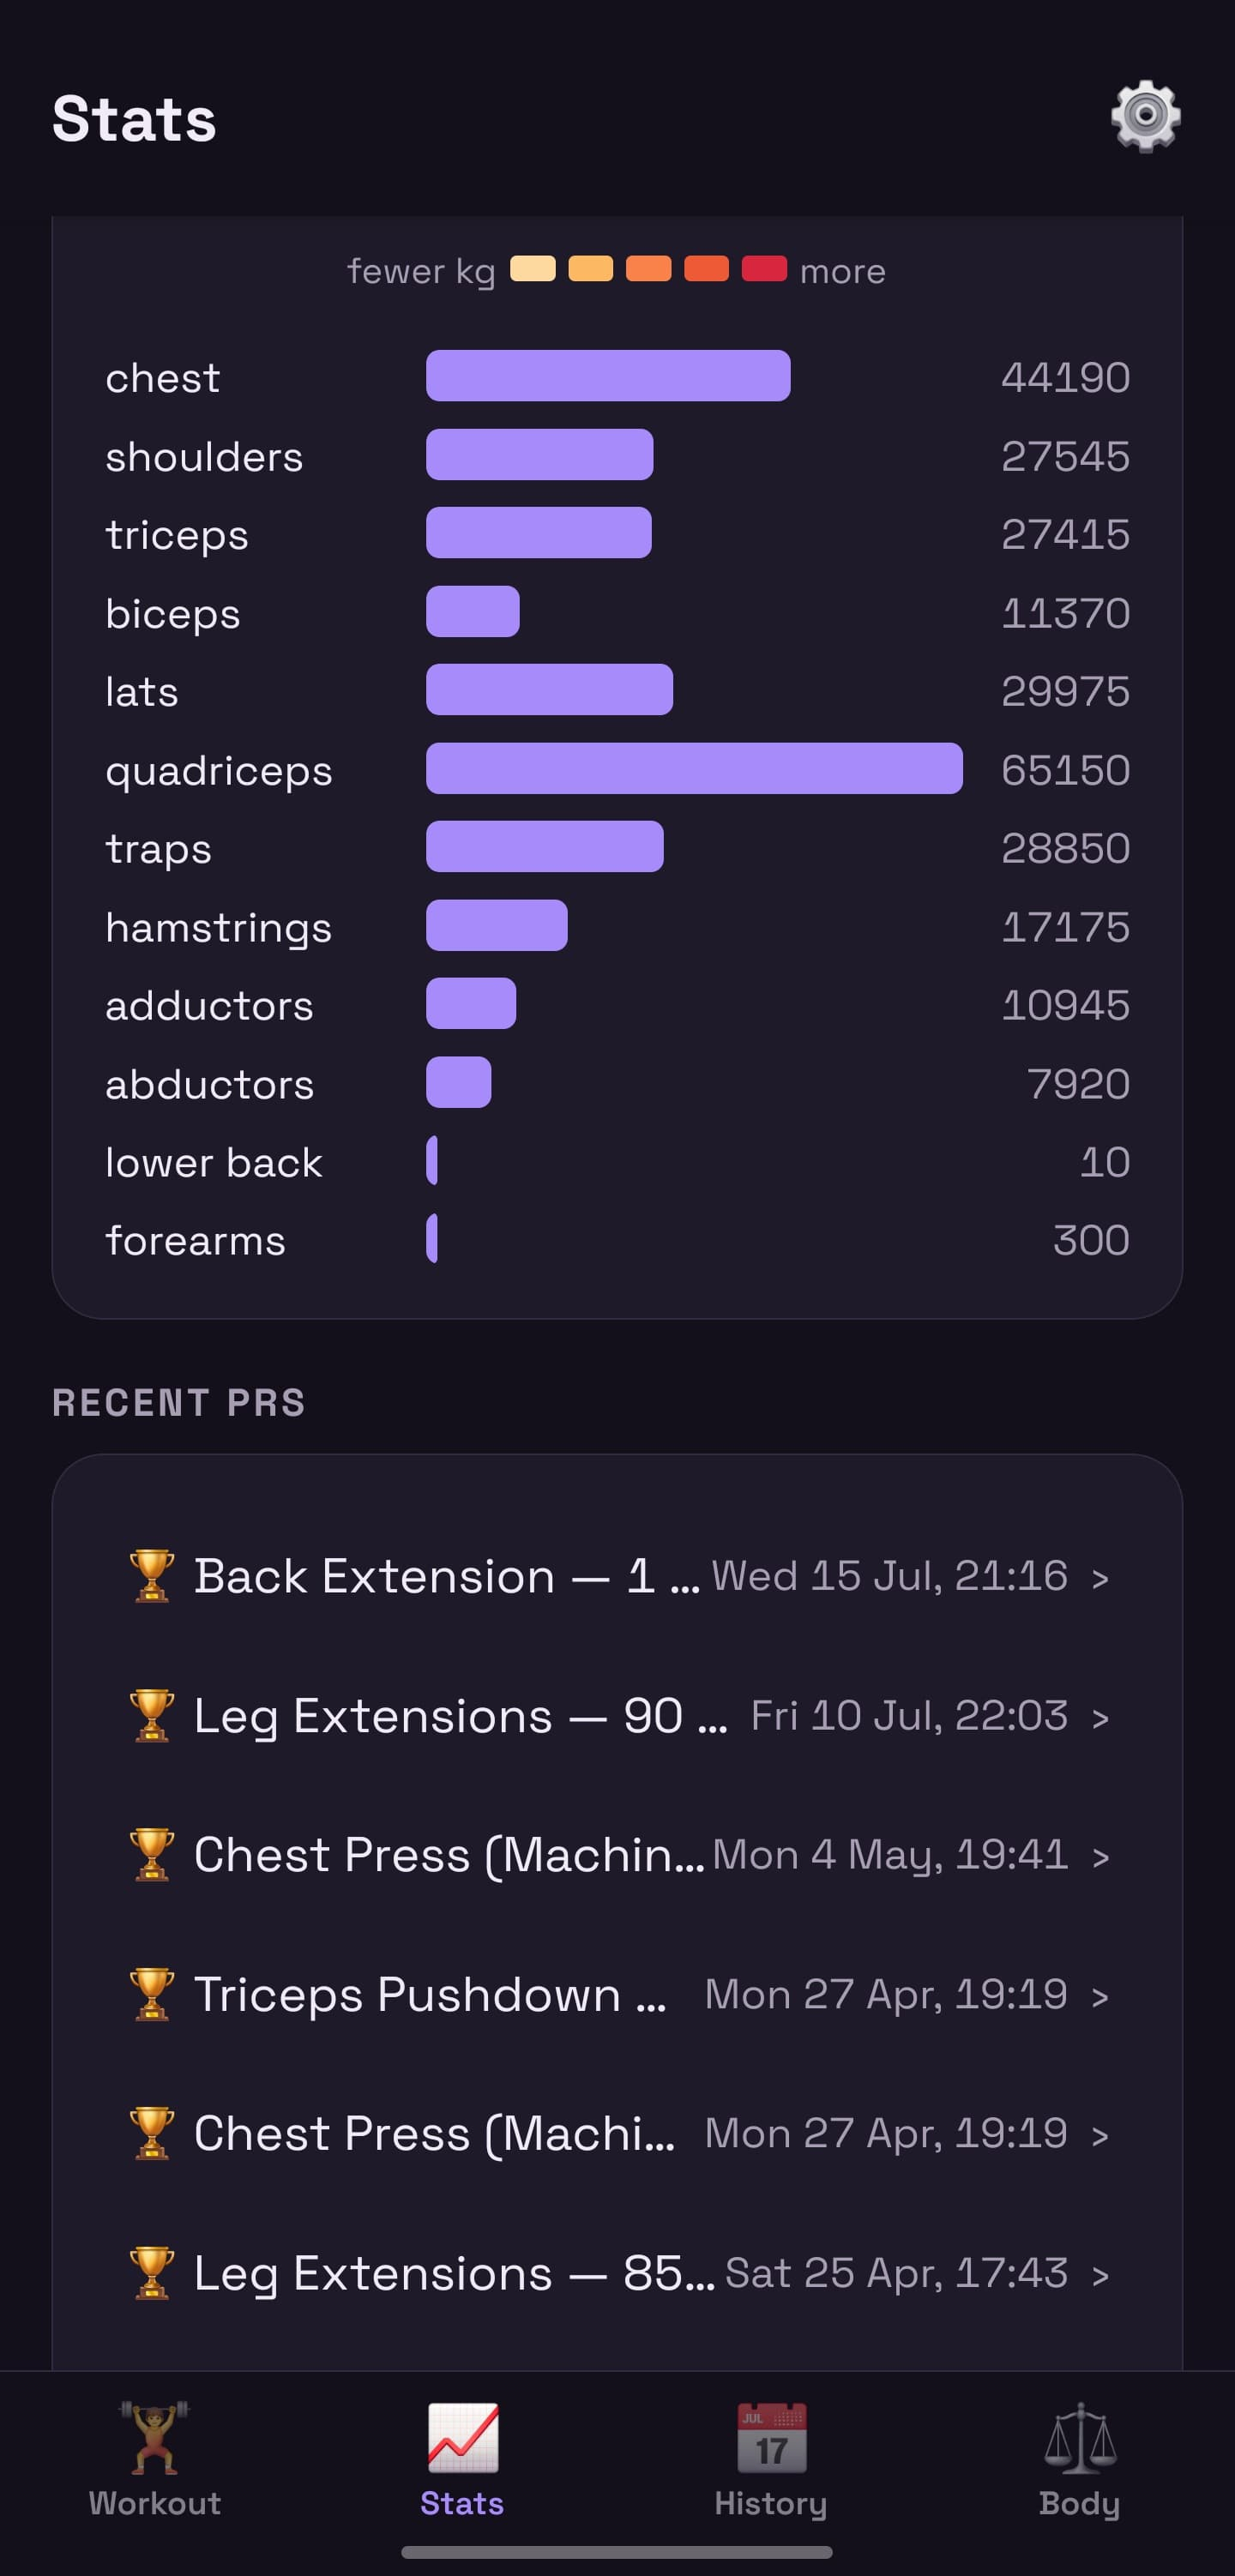
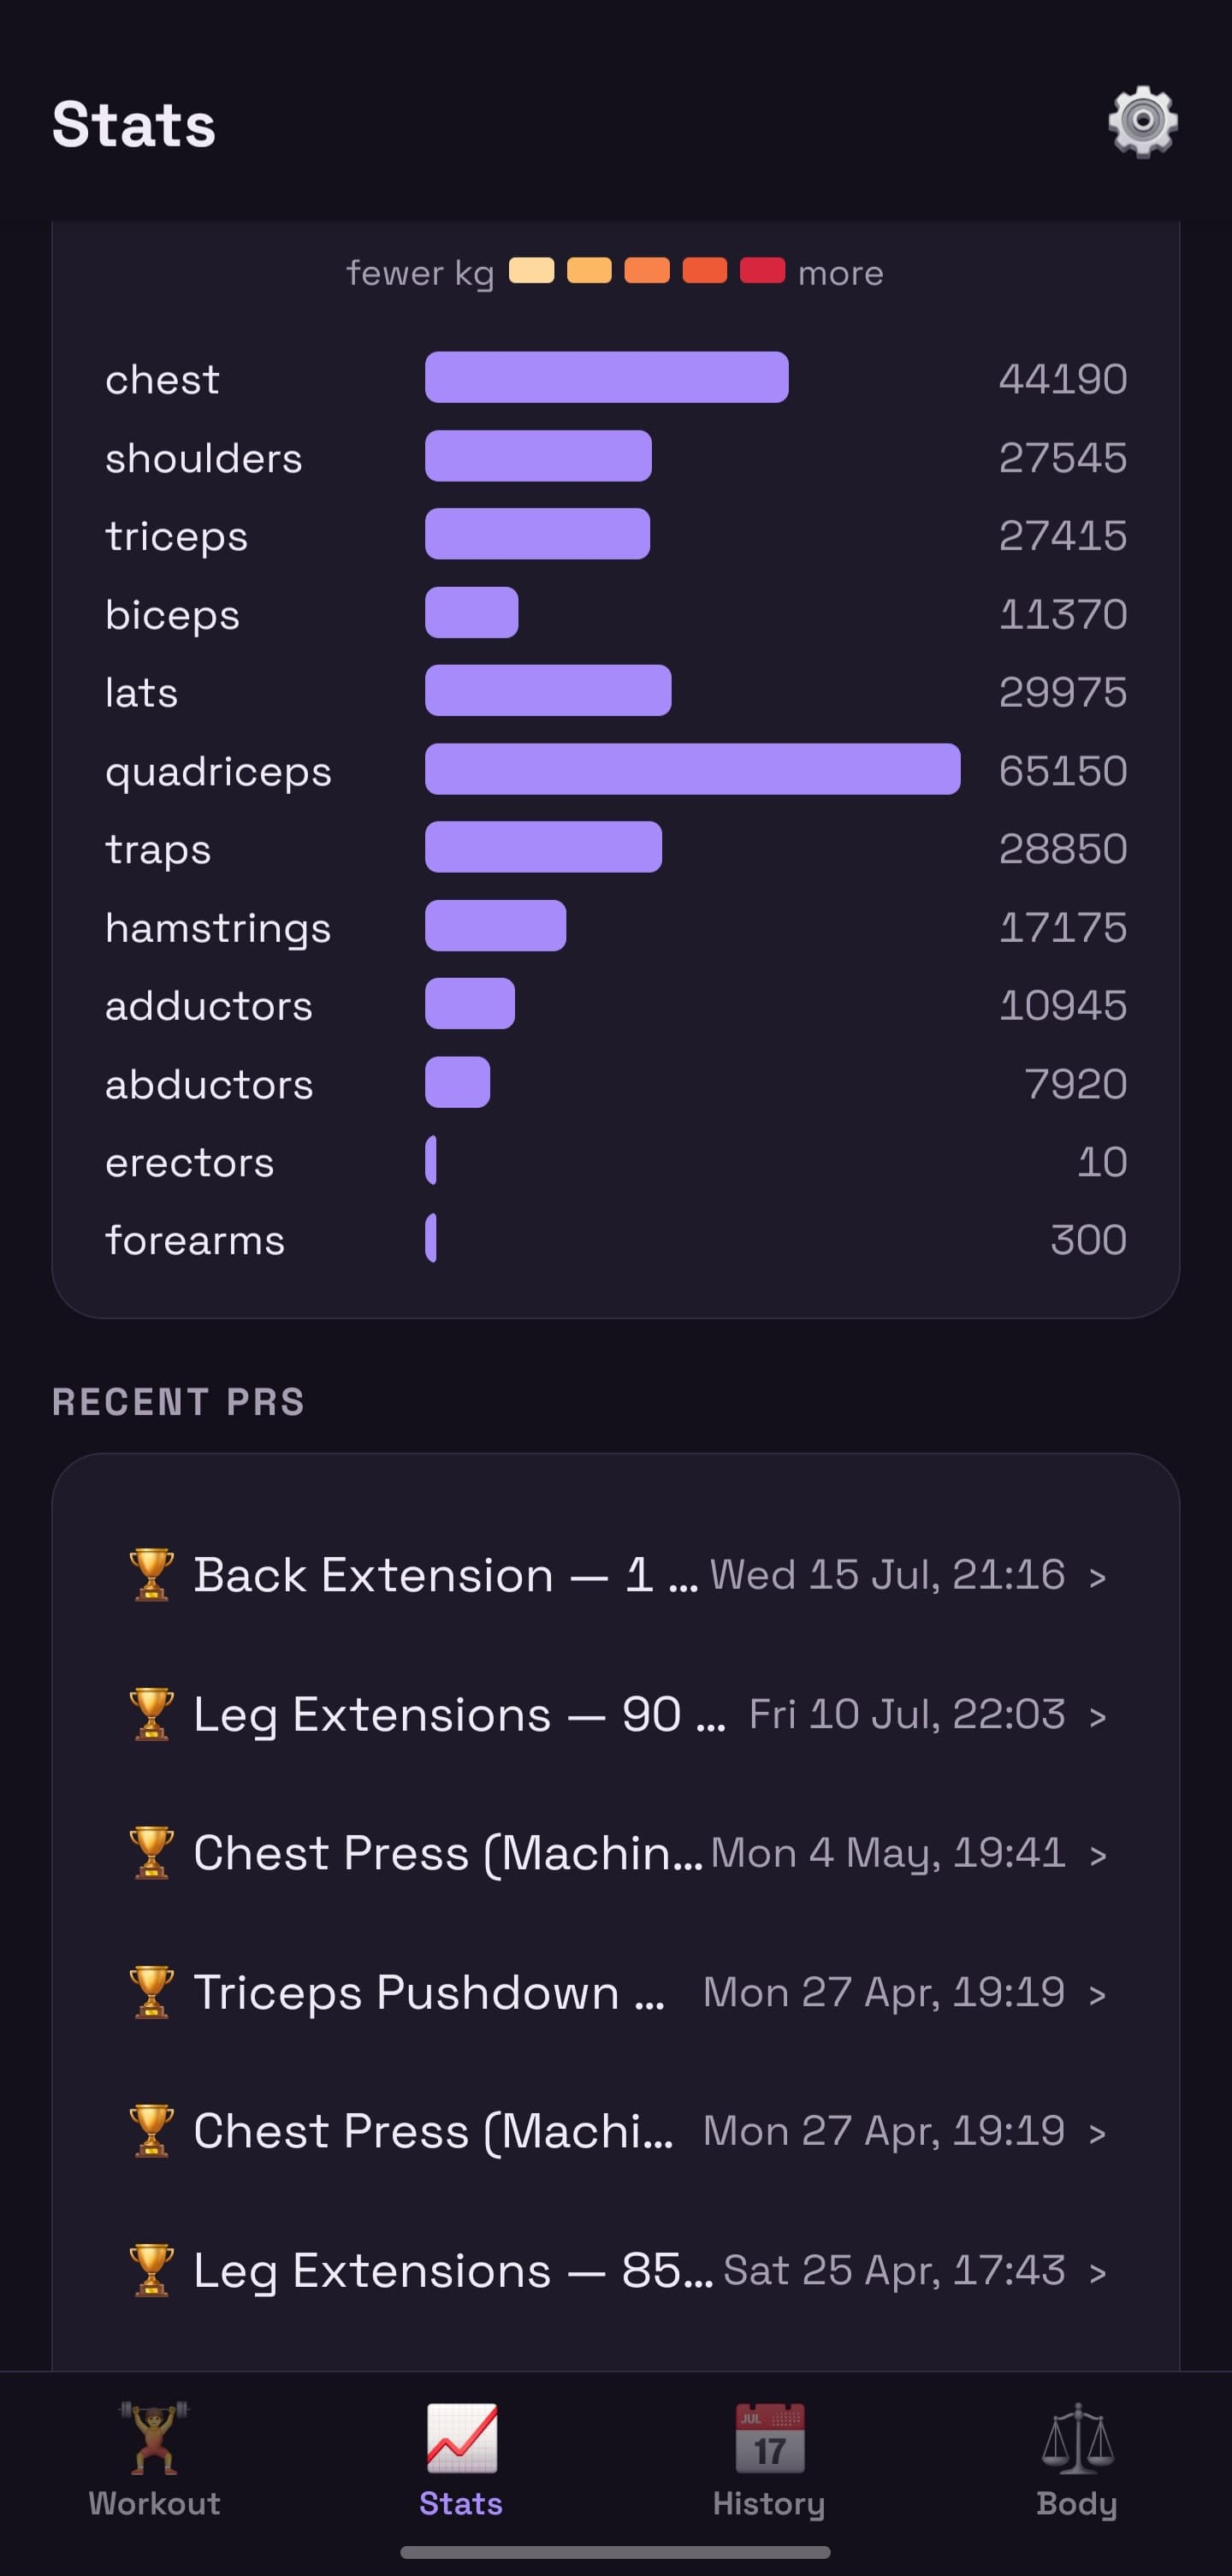
Default to Violet theme; add live-workout shot, fix PRs screenshot

diff --git a/src/constants/theme.ts b/src/constants/theme.ts
@@ -6,10 +6,10 @@
 import { Platform, TextStyle } from 'react-native';
 
 // Each theme is a color scheme with a light + dark variant sharing the same token
-// keys, so every consumer (useTheme) is palette-agnostic. Ember is the default:
-// warm-tinted surfaces + ember-orange brand tint, backgrounds deliberately NOT
-// pure black/white (dark = layered espresso, light = warm paper with white cards).
-// The other palettes follow the same structure per hue family.
+// keys, so every consumer (useTheme) is palette-agnostic. Violet is the default
+// (see DEFAULT_THEME below). Backgrounds are deliberately NOT pure black/white
+// (e.g. Ember's dark = layered espresso, light = warm paper with white cards);
+// every palette follows the same structure per hue family.
 // ponytail: hand-tuned hexes — tweak freely, contrast just needs to hold in both modes.
 export const Themes = {
   ember: {
@@ -171,7 +171,7 @@ export const Themes = {
 
 export type ThemeName = keyof typeof Themes;
 
-export const DEFAULT_THEME: ThemeName = 'ember';
+export const DEFAULT_THEME: ThemeName = 'violet';
 
 export type ThemeMode = 'system' | 'light' | 'dark';
 

diff --git a/README.md b/README.md
@@ -32,16 +32,21 @@ Day-to-day improvements still arrive over the air on app restart; Obtainium only
 
 ## 📸 Screenshots
 
+<p align="center">
+  <img src="screenshots/trendline.jpg" width="270" alt="The Trendline"><br>
+  <sub><b>The Trendline</b> — body weight, weekly tonnage & calories on one chart, each scaled to its own range</sub>
+</p>
+
 <table>
   <tr>
-    <td align="center" width="33%"><img src="screenshots/trendline.jpg" width="240" alt="The Trendline"><br><sub><b>The Trendline</b><br>weight · tonnage · calories, one chart</sub></td>
-    <td align="center" width="33%"><img src="screenshots/muscle-heatmap-sets.jpg" width="240" alt="Muscle heatmap (sets)"><br><sub><b>Sets per muscle</b><br>anatomical heatmap</sub></td>
-    <td align="center" width="33%"><img src="screenshots/exercise-detail.jpg" width="240" alt="Exercise detail"><br><sub><b>Per-exercise</b><br>progression & muscle targets</sub></td>
+    <td align="center" width="33%"><img src="screenshots/live-workout.jpg" width="230" alt="Live workout logging"><br><sub><b>Live logging</b><br>sets, rest timer, ghost values</sub></td>
+    <td align="center" width="33%"><img src="screenshots/exercise-detail.jpg" width="230" alt="Exercise detail"><br><sub><b>Per-exercise</b><br>progression & muscle targets</sub></td>
+    <td align="center" width="33%"><img src="screenshots/muscle-heatmap-sets.jpg" width="230" alt="Muscle heatmap (sets)"><br><sub><b>Sets per muscle</b><br>anatomical heatmap</sub></td>
   </tr>
   <tr>
-    <td align="center" width="33%"><img src="screenshots/recent-prs.jpg" width="240" alt="Tonnage & PRs"><br><sub><b>Tonnage per muscle</b><br>+ recent PRs</sub></td>
-    <td align="center" width="33%"><img src="screenshots/muscle-heatmap-tonnage.jpg" width="240" alt="Muscle heatmap (tonnage)"><br><sub><b>Same heatmap</b><br>toggled to tonnage</sub></td>
-    <td align="center" width="33%"><img src="screenshots/workout-detail.jpg" width="240" alt="Workout report"><br><sub><b>Workout report</b><br>every set, logged</sub></td>
+    <td align="center" width="33%"><img src="screenshots/muscle-heatmap-tonnage.jpg" width="230" alt="Muscle heatmap (tonnage)"><br><sub><b>Same heatmap</b><br>toggled to tonnage</sub></td>
+    <td align="center" width="33%"><img src="screenshots/recent-prs.jpg" width="230" alt="Tonnage & PRs"><br><sub><b>Tonnage per muscle</b><br>+ recent PRs</sub></td>
+    <td align="center" width="33%"><img src="screenshots/workout-detail.jpg" width="230" alt="Workout report"><br><sub><b>Workout report</b><br>every set, logged</sub></td>
   </tr>
 </table>
 

diff --git a/WORKLOG.md b/WORKLOG.md
@@ -2,6 +2,12 @@
 
 Handoff log: newest entry first. Read AGENTS.md (project brief) and FEATURES.md (spec of record) first.
 
+## 2026-07-24 — Violet default theme + screenshot swap
+
+Pre-announce polish, all Violet (the theme owner is sharing):
+- **Default theme Ember → Violet** — `DEFAULT_THEME` in `theme.ts` (the `useState` seed in settings-context when no `theme` setting is saved). New installs / users who never picked a theme now get Violet; anyone who explicitly chose a theme keeps it. FEATURES.md theme line updated.
+- **Screenshots**: added `live-workout.jpg` (active logging — rest timer, green completed sets, KG/REPS inputs; the "matches Strong" shot the gallery lacked) and replaced `recent-prs.jpg` with the erectors-corrected version (owner fixed a stale "lower back" record on-device). README gallery reworked to a Trendline hero + 3×2 grid (7 shots).
+
 ## 2026-07-24 — README screenshots
 
 Owner supplied 6 real-data screenshots (Violet theme) → renamed from WhatsApp filenames to descriptive slugs in `screenshots/` (trendline, muscle-heatmap-sets, exercise-detail, recent-prs, muscle-heatmap-tonnage, workout-detail) and added a captioned 3×2 HTML-table gallery to the README after the "Why it exists" pitch. Pre-release polish before announcing.

diff --git a/FEATURES.md b/FEATURES.md
@@ -67,7 +67,7 @@ The bar for done: the owner logs a full real gym session, a weigh-in, and a day 
 - [x] Beauty pass: shared `EmptyState` component (emoji + hook line) across every empty list/section, pressed states on every Pressable, `tabular-nums` on all numeric text, consistent scroll padding rhythm (incl. the new calendar/streaks, picker Recent/equipment chips, head-aggregation, and routine-editor surfaces), success haptic on workout finish
 - [ ] Home-screen widget / quick actions (log weigh-in from launcher) (needs a dev build — Expo Go can't register launcher widgets; deferred until off Expo Go)
 - [x] Dark mode (system theme, all components themed)
-- [x] Theme selector (Settings → Appearance): 5 hand-tuned color-scheme presets (Ember default, Ocean, Forest, Violet, Slate), each with light+dark variants sharing token keys so `useTheme()` stays palette-agnostic; separate Light/Dark/System mode toggle overrides the OS. Both persist in the settings table (`theme`, `theme_mode`); `Themes` registry replaces the single `Colors` object in `theme.ts`, nav chrome tracks the active palette via `_layout.tsx`'s `Nav` mounted inside `SettingsProvider`
+- [x] Theme selector (Settings → Appearance): 5 hand-tuned color-scheme presets (Violet default, plus Ember, Ocean, Forest, Slate), each with light+dark variants sharing token keys so `useTheme()` stays palette-agnostic; separate Light/Dark/System mode toggle overrides the OS. Both persist in the settings table (`theme`, `theme_mode`); `Themes` registry replaces the single `Colors` object in `theme.ts`, nav chrome tracks the active palette via `_layout.tsx`'s `Nav` mounted inside `SettingsProvider`
 - [x] Ember visual identity: warm stone neutrals + ember-orange brand tint (replaces stock-iOS blue) across app + nav chrome, `onTint` token for text on orange, `accent` moved to cool cyan so Trendline kcal ≠ weight line; `Type` scale in theme.ts (stat/title/body/caption/label) applied to shared components + big stats
 - [x] Space Grotesk as the app typeface (`@expo-google-fonts/space-grotesk`, runtime `useFonts` — no config plugin, so no rebuild needed): `src/components/text.tsx` Text wrapper maps `fontWeight` → per-weight font file (Android ignores numeric weights on custom fonts); all screens import Text from the wrapper; TextInputs carry explicit `fontFamily`; nav headers/tab labels themed
 - [x] Premium pass: layered warm backgrounds (espresso dark / paper light — no more stock black/white), `border` token + hairline edges on cards/inputs/secondary buttons, gradient area fill under line charts + flat-bottom rounded bars, read-only workout detail redesigned as a report (Duration/Sets/Volume stat card, quiet set table) vs active workout's always-on ember "● In progress" status strip (elapsed + sets done, doubles as the rest bar)